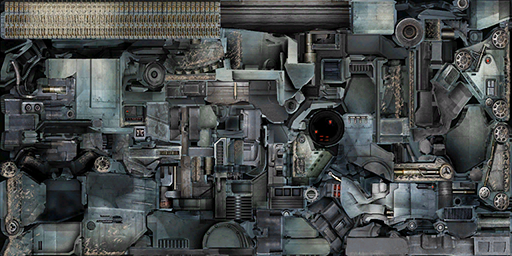
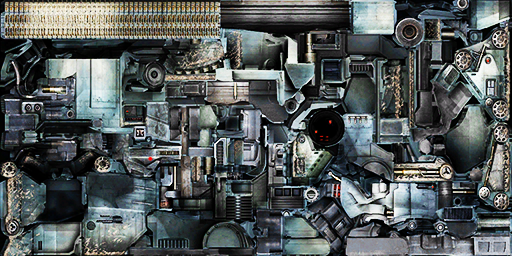
Thêm ROCK vô!

diff --git a/src/myjogl/utils/TankMap.java b/src/myjogl/utils/TankMap.java
@@ -49,14 +49,16 @@ public class TankMap {
     private static Texture ttGachTuong = null;
     private static Texture ttGachTuong2 = null;
     private static Texture ttGachMen = null;
+    private static Texture ttRockTop = null;
+    private static Texture ttRockEdge = null;
     //
     final float[] redLightColor = {1.0f, 1.0f, 1.0f, 1.0f}; //red
     final float[] redLightPos = {0.0f, 0.0f, 0.0f, 1.0f};
     //
     private static TankMap instance = null;
-    
-    private int top;
-    private int listBox2;
+    private int listTop;
+    private int listBox;
+    private int listRock;
     //
 
     public static TankMap getInst() {
@@ -71,15 +73,17 @@ public class TankMap {
         ttGachTuong = ResourceManager.getInst().getTexture("data/game/gach_tuong.png", true, GL.GL_REPEAT, GL.GL_REPEAT, GL.GL_LINEAR_MIPMAP_LINEAR, GL.GL_LINEAR_MIPMAP_LINEAR);
         ttGachTuong2 = ResourceManager.getInst().getTexture("data/game/gach_tuong2.png", true, GL.GL_REPEAT, GL.GL_REPEAT, GL.GL_LINEAR_MIPMAP_LINEAR, GL.GL_LINEAR_MIPMAP_LINEAR);
         ttGachMen = ResourceManager.getInst().getTexture("data/game/gach_men.png", true, GL.GL_REPEAT, GL.GL_REPEAT, GL.GL_LINEAR_MIPMAP_LINEAR, GL.GL_LINEAR_MIPMAP_LINEAR);
+        ttRockTop = ResourceManager.getInst().getTexture("data/game/rock_top.png", true, GL.GL_REPEAT, GL.GL_REPEAT, GL.GL_LINEAR_MIPMAP_LINEAR, GL.GL_LINEAR_MIPMAP_LINEAR);
+        ttRockEdge = ResourceManager.getInst().getTexture("data/game/rock_edge.png", true, GL.GL_REPEAT, GL.GL_REPEAT, GL.GL_LINEAR_MIPMAP_LINEAR, GL.GL_LINEAR_MIPMAP_LINEAR);
         //
         listTankPosition = new ArrayList();
         listTankAiPosition = new ArrayList();
-        
+
         // Init list
         GL gl = Global.drawable.getGL();
-        
-        top = gl.glGenLists(1);
-        gl.glNewList(top, GL.GL_COMPILE);
+
+        listTop = gl.glGenLists(1);
+        gl.glNewList(listTop, GL.GL_COMPILE);
         //TILE_WIDTH, TILE_HEIGHT, TILE_WIDTH
         gl.glBegin(GL.GL_QUADS);        // Draw The Cube Using quads
         {
@@ -97,12 +101,88 @@ public class TankMap {
         gl.glEnd();
         gl.glEndList();
         ///
-        listBox2 = gl.glGenLists(1);
-        gl.glNewList(listBox2, GL.GL_COMPILE);
-        
+        listBox = gl.glGenLists(1);
+        gl.glNewList(listBox, GL.GL_COMPILE);
+
         gl.glBegin(GL.GL_QUADS);        // Draw The Cube Using quads
         {
             //top is in upper
+
+            gl.glNormal3f(0, -1, 0);
+            //glColor3f(1.0f,0.5f,0.0f);    // Color Orange
+            gl.glTexCoord2f(1, 1);
+            gl.glVertex3f(TILE_WIDTH, 0, TILE_WIDTH);    // Top Right Of The Quad (Bottom)
+            gl.glTexCoord2f(0.0f, 1);
+            gl.glVertex3f(0, 0, TILE_WIDTH);    // Top Left Of The Quad (Bottom)
+            gl.glTexCoord2f(0.0f, 0.0f);
+            gl.glVertex3f(0, 0, 0);    // Bottom Left Of The Quad (Bottom)
+            gl.glTexCoord2f(1, 0.0f);
+            gl.glVertex3f(TILE_WIDTH, 0, 0);    // Bottom Right Of The Quad (Bottom)
+
+            gl.glNormal3f(0, 0, 1);
+            //glColor3f(1.0f,0.0f,0.0f);    // Color Red    
+            gl.glTexCoord2f(1, 1);
+            gl.glVertex3f(TILE_WIDTH, TILE_HEIGHT, TILE_WIDTH);    // Top Right Of The Quad (Front)
+            gl.glTexCoord2f(0.0f, 1);
+            gl.glVertex3f(0, TILE_HEIGHT, TILE_WIDTH);    // Top Left Of The Quad (Front)
+            gl.glTexCoord2f(0.0f, 0.0f);
+            gl.glVertex3f(0, 0, TILE_WIDTH);    // Bottom Left Of The Quad (Front)
+            gl.glTexCoord2f(1, 0.0f);
+            gl.glVertex3f(TILE_WIDTH, 0, TILE_WIDTH);    // Bottom Right Of The Quad (Front)
+
+            gl.glNormal3f(0, 0, -1);
+            //glColor3f(1.0f,1.0f,0.0f);    // Color Yellow
+            gl.glTexCoord2f(1, 1);
+            gl.glVertex3f(TILE_WIDTH, 0, 0);    // Top Right Of The Quad (Back)
+            gl.glTexCoord2f(0.0f, 1);
+            gl.glVertex3f(0, 0, 0);    // Top Left Of The Quad (Back)
+            gl.glTexCoord2f(0.0f, 0.0f);
+            gl.glVertex3f(0, TILE_HEIGHT, 0);    // Bottom Left Of The Quad (Back)
+            gl.glTexCoord2f(1, 0.0f);
+            gl.glVertex3f(TILE_WIDTH, TILE_HEIGHT, 0);    // Bottom Right Of The Quad (Back)
+
+            gl.glNormal3f(-1, 0, 0);
+            //glColor3f(0.0f,0.0f,1.0f);    // Color Blue
+            gl.glTexCoord2f(1, 1);
+            gl.glVertex3f(0, TILE_HEIGHT, TILE_WIDTH);    // Top Right Of The Quad (Left)
+            gl.glTexCoord2f(0.0f, 1);
+            gl.glVertex3f(0, TILE_HEIGHT, 0);    // Top Left Of The Quad (Left)
+            gl.glTexCoord2f(0.0f, 0.0f);
+            gl.glVertex3f(0, 0, 0);    // Bottom Left Of The Quad (Left)
+            gl.glTexCoord2f(1, 0.0f);
+            gl.glVertex3f(0, 0, TILE_WIDTH);    // Bottom Right Of The Quad (Left)
+
+            gl.glNormal3f(1, 0, 0);
+            //glColor3f(1.0f,0.0f,1.0f);    // Color Violet
+            gl.glTexCoord2f(1, 1);
+            gl.glVertex3f(TILE_WIDTH, TILE_HEIGHT, 0);    // Top Right Of The Quad (Right)
+            gl.glTexCoord2f(0.0f, 1);
+            gl.glVertex3f(TILE_WIDTH, TILE_HEIGHT, TILE_WIDTH);    // Top Left Of The Quad (Right)
+            gl.glTexCoord2f(0.0f, 0.0f);
+            gl.glVertex3f(TILE_WIDTH, 0, TILE_WIDTH);    // Bottom Left Of The Quad (Right)
+            gl.glTexCoord2f(1, 0.0f);
+            gl.glVertex3f(TILE_WIDTH, 0, 0);    // Bottom Right Of The Quad (Right)
+        }
+        gl.glEnd();            // End Drawing The Cube
+        gl.glEndList();
+
+        // List Rock
+        listRock = gl.glGenLists(1);
+        gl.glNewList(listRock, GL.GL_COMPILE);
+
+        gl.glBegin(GL.GL_QUADS);        // Draw The Cube Using quads
+        {
+            //top is in upper
+            gl.glNormal3f(0, 1, 0);
+            //glColor3f(0.0f,1.0f,0.0f);    // Color Blue
+            gl.glTexCoord2f(1, 1);
+            gl.glVertex3f(TILE_WIDTH, TILE_HEIGHT, 0);    // Top Right Of The Quad (Top)
+            gl.glTexCoord2f(0.0f, 1);
+            gl.glVertex3f(0, TILE_HEIGHT, 0);    // Top Left Of The Quad (Top)
+            gl.glTexCoord2f(0.0f, 0.0f);
+            gl.glVertex3f(0, TILE_HEIGHT, TILE_WIDTH);    // Bottom Left Of The Quad (Top)
+            gl.glTexCoord2f(1, 0.0f);
+            gl.glVertex3f(TILE_WIDTH, TILE_HEIGHT, TILE_WIDTH);    // Bottom Right Of The Quad (Top)
 
             gl.glNormal3f(0, -1, 0);
             //glColor3f(1.0f,0.5f,0.0f);    // Color Orange
@@ -235,6 +315,9 @@ public class TankMap {
                 if (blue == ID.BRICK) {
                     this.drawCube(j * TILE_WIDTH, 0, i * TILE_WIDTH,
                             TILE_WIDTH, TILE_HEIGHT, TILE_WIDTH);
+                } else if (blue == ID.ROCK) {
+                    this.drawRock(j * TILE_WIDTH, 0, i * TILE_WIDTH,
+                            TILE_WIDTH, TILE_HEIGHT, TILE_WIDTH);
                 }
             }
         }
@@ -249,7 +332,7 @@ public class TankMap {
         for (int i = y; i < b; i++) {
             for (int j = x; j < r; j++) {
                 if (j >= 0 && j < width && i >= 0 && i < height) {
-                    if (board[i][j] == ID.BRICK) {
+                    if (board[i][j] == ID.BRICK || board[i][j] == ID.ROCK) {
                         return true;
                     }
                 }
@@ -266,7 +349,9 @@ public class TankMap {
      */
     public void delete(int z, int x) {
         if (x >= 0 && x < width && z >= 0 && z < height) {
-            board[z][x] = 0;
+            if (board[z][x] == ID.BRICK) {
+                board[z][x] = 0;
+            }
         }
     }
 
@@ -357,94 +442,40 @@ public class TankMap {
 
         ttGachTuong2.enable();
         ttGachTuong2.bind();
-//        gl.glBegin(GL.GL_QUADS);        // Draw The Cube Using quads
-//        {
-//            gl.glNormal3f(0, 1, 0);
-//            //glColor3f(0.0f,1.0f,0.0f);    // Color Blue
-//            gl.glTexCoord2f(sx, sz);
-//            gl.glVertex3f(sx, sy, 0);    // Top Right Of The Quad (Top)
-//            gl.glTexCoord2f(0.0f, sz);
-//            gl.glVertex3f(0, sy, 0);    // Top Left Of The Quad (Top)
-//            gl.glTexCoord2f(0.0f, 0.0f);
-//            gl.glVertex3f(0, sy, sz);    // Bottom Left Of The Quad (Top)
-//            gl.glTexCoord2f(sx, 0.0f);
-//            gl.glVertex3f(sx, sy, sz);    // Bottom Right Of The Quad (Top)
-//        }
-//        gl.glEnd();
-        gl.glCallList(top);
-        //ttGachTuong2.disable();
+        gl.glCallList(listTop);
+        ttGachTuong2.disable();
 
         ttGachTuong.enable();
         ttGachTuong.bind();
-        gl.glCallList(listBox2);
-//        gl.glBegin(GL.GL_QUADS);        // Draw The Cube Using quads
-//        {
-//            //top is in upper
-//
-//            gl.glNormal3f(0, -1, 0);
-//            //glColor3f(1.0f,0.5f,0.0f);    // Color Orange
-//            gl.glTexCoord2f(sx, sz);
-//            gl.glVertex3f(sx, 0, sz);    // Top Right Of The Quad (Bottom)
-//            gl.glTexCoord2f(0.0f, sz);
-//            gl.glVertex3f(0, 0, sz);    // Top Left Of The Quad (Bottom)
-//            gl.glTexCoord2f(0.0f, 0.0f);
-//            gl.glVertex3f(0, 0, 0);    // Bottom Left Of The Quad (Bottom)
-//            gl.glTexCoord2f(sx, 0.0f);
-//            gl.glVertex3f(sx, 0, 0);    // Bottom Right Of The Quad (Bottom)
-//
-//            gl.glNormal3f(0, 0, 1);
-//            //glColor3f(1.0f,0.0f,0.0f);    // Color Red    
-//            gl.glTexCoord2f(sx, sy);
-//            gl.glVertex3f(sx, sy, sz);    // Top Right Of The Quad (Front)
-//            gl.glTexCoord2f(0.0f, sy);
-//            gl.glVertex3f(0, sy, sz);    // Top Left Of The Quad (Front)
-//            gl.glTexCoord2f(0.0f, 0.0f);
-//            gl.glVertex3f(0, 0, sz);    // Bottom Left Of The Quad (Front)
-//            gl.glTexCoord2f(sx, 0.0f);
-//            gl.glVertex3f(sx, 0, sz);    // Bottom Right Of The Quad (Front)
-//
-//            gl.glNormal3f(0, 0, -1);
-//            //glColor3f(1.0f,1.0f,0.0f);    // Color Yellow
-//            gl.glTexCoord2f(sx, sy);
-//            gl.glVertex3f(sx, 0, 0);    // Top Right Of The Quad (Back)
-//            gl.glTexCoord2f(0.0f, sy);
-//            gl.glVertex3f(0, 0, 0);    // Top Left Of The Quad (Back)
-//            gl.glTexCoord2f(0.0f, 0.0f);
-//            gl.glVertex3f(0, sy, 0);    // Bottom Left Of The Quad (Back)
-//            gl.glTexCoord2f(sx, 0.0f);
-//            gl.glVertex3f(sx, sy, 0);    // Bottom Right Of The Quad (Back)
-//
-//            gl.glNormal3f(-1, 0, 0);
-//            //glColor3f(0.0f,0.0f,1.0f);    // Color Blue
-//            gl.glTexCoord2f(sz, sy);
-//            gl.glVertex3f(0, sy, sz);    // Top Right Of The Quad (Left)
-//            gl.glTexCoord2f(0.0f, sy);
-//            gl.glVertex3f(0, sy, 0);    // Top Left Of The Quad (Left)
-//            gl.glTexCoord2f(0.0f, 0.0f);
-//            gl.glVertex3f(0, 0, 0);    // Bottom Left Of The Quad (Left)
-//            gl.glTexCoord2f(sz, 0.0f);
-//            gl.glVertex3f(0, 0, sz);    // Bottom Right Of The Quad (Left)
-//
-//            gl.glNormal3f(1, 0, 0);
-//            //glColor3f(1.0f,0.0f,1.0f);    // Color Violet
-//            gl.glTexCoord2f(sz, sy);
-//            gl.glVertex3f(sx, sy, 0);    // Top Right Of The Quad (Right)
-//            gl.glTexCoord2f(0.0f, sy);
-//            gl.glVertex3f(sx, sy, sz);    // Top Left Of The Quad (Right)
-//            gl.glTexCoord2f(0.0f, 0.0f);
-//            gl.glVertex3f(sx, 0, sz);    // Bottom Left Of The Quad (Right)
-//            gl.glTexCoord2f(sz, 0.0f);
-//            gl.glVertex3f(sx, 0, 0);    // Bottom Right Of The Quad (Right)
-//        }
-//        gl.glEnd();            // End Drawing The Cube
-
-        //ttGachTuong2.disable();
+        gl.glCallList(listBox);
+        ttGachTuong.disable();
 
         gl.glPopMatrix();
 
         //reset color
         gl.glColor4f(1, 1, 1, 1);
     }
-    
-    //
+
+    public void drawRock(float x, float y, float z,
+            float sx, float sy, float sz) {
+        GL gl = Global.drawable.getGL();
+
+        gl.glPushMatrix();
+        gl.glTranslatef(x, y, z);
+
+        ttRockTop.enable();
+        ttRockTop.bind();
+        gl.glCallList(listTop);
+        ttRockTop.disable();
+
+        ttRockEdge.enable();
+        ttRockEdge.bind();
+        gl.glCallList(listBox);
+        ttRockEdge.disable();
+
+        gl.glPopMatrix();
+
+        //reset color
+        gl.glColor4f(1, 1, 1, 1);
+    }
 }
